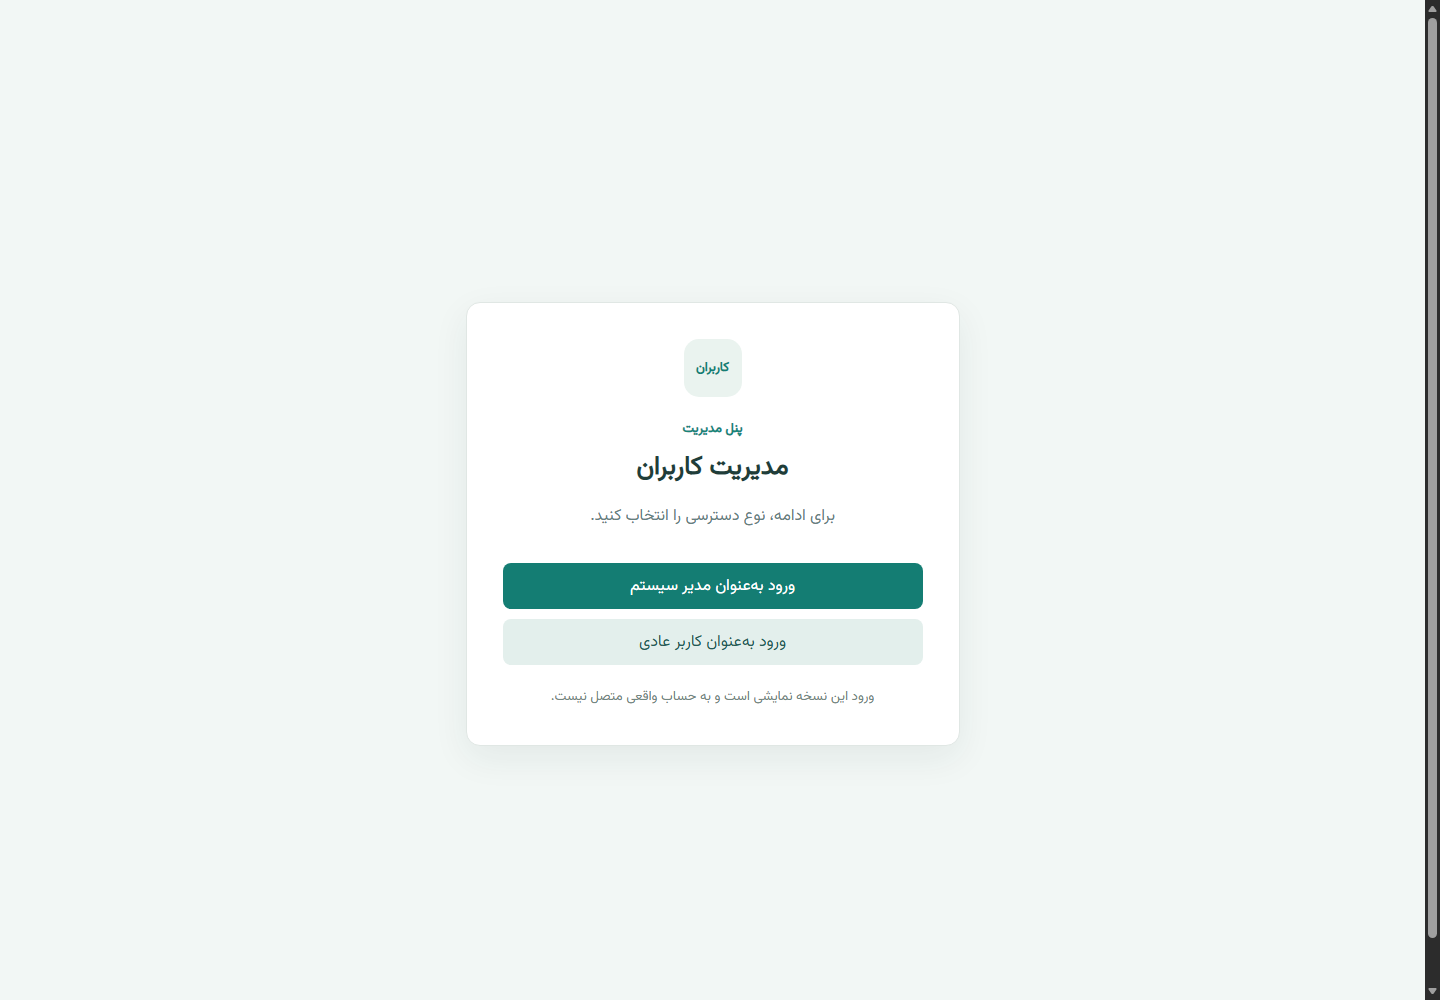
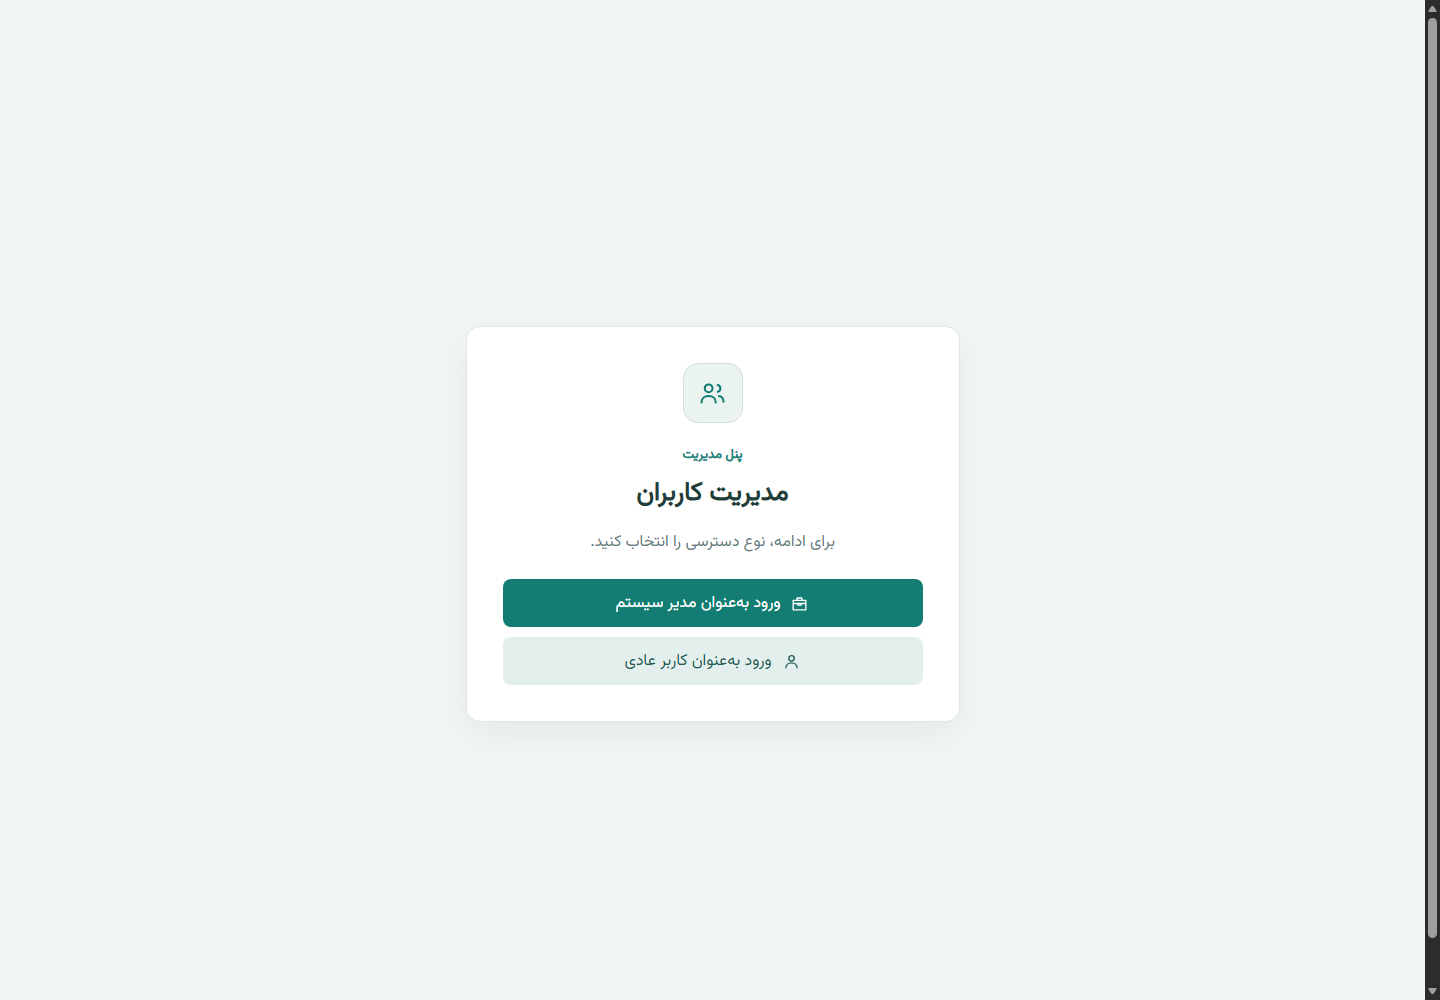
Refine role selection and project README

Changed region(s): [[0.3438, 0.372, 0.6562, 0.713]]

diff --git a/src/app/login-page.css b/src/app/login-page.css
@@ -1,11 +1,12 @@
 :host { display: block; min-height: 100vh; }
 .auth-page { display: grid; min-height: 100vh; place-items: center; padding: 24px; background: #f2f7f5; }
 .auth-card { width: min(420px, 100%); padding: 36px; border: 1px solid #e0e7e4; border-radius: 14px; background: #fff; box-shadow: 0 12px 36px #183b3512; text-align: center; }
-.auth-mark { display: grid; width: 58px; height: 58px; place-items: center; margin: 0 auto 22px; border-radius: 15px; color: #147d73; background: #eaf3ef; font-size: 13px; font-weight: 700; }
+.auth-mark { display: grid; width: 58px; height: 58px; place-items: center; margin: 0 auto 22px; border: 1px solid #cfe1db; border-radius: 15px; color: #147d73; background: #eaf3ef; }
+.auth-mark svg { width: 31px; height: 31px; stroke: currentColor; stroke-width: 1.6; stroke-linecap: round; stroke-linejoin: round; }
 .eyebrow { margin-bottom: 8px; color: #188477; font-size: 13px; font-weight: 700; }
 h1 { margin: 0 0 10px; color: #203d39; font-size: 26px; }
 .auth-description { margin-bottom: 24px; color: #66817d; }
-button { width: 100%; min-height: 46px; margin-top: 10px; border: 0; border-radius: 8px; color: #fff; background: #147d73; font: inherit; cursor: pointer; }
+button { display: flex; align-items: center; justify-content: center; gap: 10px; width: 100%; min-height: 48px; margin-top: 10px; border: 0; border-radius: 8px; color: #fff; background: #147d73; font: inherit; cursor: pointer; }
 button:hover { background: #10665e; }
 button.quiet-button { color: #245b56; background: #e3efec; }
-small { display: block; margin-top: 20px; color: #718782; line-height: 1.8; }
+.role-option-icon { width: 19px; height: 19px; stroke: currentColor; stroke-width: 1.7; stroke-linecap: round; stroke-linejoin: round; }

diff --git a/src/app/login-page.html b/src/app/login-page.html
@@ -1,17 +1,28 @@
 <main class="auth-page" dir="rtl">
   <section class="auth-card">
-    <span class="auth-mark" aria-hidden="true">کاربران</span>
+    <span class="auth-mark" aria-hidden="true">
+      <svg viewBox="0 0 24 24" fill="none">
+        <circle cx="9" cy="8" r="3" />
+        <path d="M3.5 19c0-3.1 2.2-5 5.5-5s5.5 1.9 5.5 5" />
+        <path d="M16 5.5a2.6 2.6 0 0 1 0 5.1M17 14c2.2.5 3.5 2.1 3.5 4.4" />
+      </svg>
+    </span>
     <p class="eyebrow">پنل مدیریت</p>
     <h1>مدیریت کاربران</h1>
     <p class="auth-description">برای ادامه، نوع دسترسی را انتخاب کنید.</p>
 
     <button type="button" (click)="chooseRole('admin')">
+      <svg class="role-option-icon" viewBox="0 0 24 24" fill="none" aria-hidden="true">
+        <path d="M4 8h16v12H4zM9 8V5h6v3M4 12h16M10 12v2h4v-2" />
+      </svg>
       ورود بهعنوان مدیر سیستم
     </button>
     <button class="quiet-button" type="button" (click)="chooseRole('user')">
+      <svg class="role-option-icon" viewBox="0 0 24 24" fill="none" aria-hidden="true">
+        <circle cx="12" cy="8" r="3.5" />
+        <path d="M5 20c0-3.6 2.9-6.2 7-6.2s7 2.6 7 6.2" />
+      </svg>
       ورود بهعنوان کاربر عادی
     </button>
-
-    <small>ورود این نسخه نمایشی است و به حساب واقعی متصل نیست.</small>
   </section>
 </main>

diff --git a/README.md b/README.md
@@ -1,34 +1,47 @@
 # مدیریت کاربران
 
-## ۱. انتخاب نوع دسترسی
+داشبورد فارسی برای دیدن و مدیریت کاربران یک سازمان. صفحه برای دو نوع دسترسی طراحی شده تا کارهای مدیریتی از فهرست معمولی جدا بماند.
 
-در صفحهٔ ورود، مدیر سیستم یا کاربر عادی انتخاب میشود. `authGuard` مسیرها را بررسی میکند: مدیر به پنل مدیریت میرود و کاربر عادی فقط فهرست را میبیند.
+## ورود و دسترسی
 
-![صفحهٔ انتخاب دسترسی](docs/login-view.png)
+در شروع، نقش مدیر سیستم یا کاربر عادی انتخاب میشود. `authGuard` پیش از باز کردن مسیر، نشست و نقش را میسنجد؛ مدیر وارد `/admin` میشود و کاربر عادی به `/users` میرود.
 
-## ۲. فهرست کاربران
+![صفحه ورود و انتخاب نقش](docs/login-view.png)
 
-جدول نام، ایمیل، نقش، واحد سازمانی و وضعیت حساب را نشان میدهد. جستوجو با نام، ایمیل یا واحد انجام میشود.
+## پنل مدیر
 
-![پنل مدیریت کاربران](docs/user-management-dashboard.png)
+کارتهای بالا تعداد کل، فعال و غیرفعال را نشان میدهند. بخش ترکیب واحدها سهم هر واحد را خلاصه میکند و جدول برای هر کاربر نقش، واحد، وضعیت و عملیات مرتبط را کنار هم میآورد.
 
-## ۳. مدیریت حسابها
+![داشبورد مدیریت کاربران](docs/user-management-dashboard.png)
 
-مدیر میتواند کاربر اضافه کند، اطلاعاتش را ویرایش کند یا با تأیید حذف کند. ایمیل تکراری پذیرفته نمیشود و حذف آخرین کاربر قابل بازگردانی است. گزارش تغییرهای اخیر هم در پنل میماند.
+### افزودن و ویرایش
 
-## ۴. ورود و خروج داده
+یک فرم برای ثبت کاربر تازه و ویرایش اطلاعات قبلی استفاده میشود. نام و ایمیل اعتبارسنجی میشوند و ایمیل تکراری ــ حتی با فاصله یا حروف بزرگ ــ پذیرفته نمیشود.
 
-فهرست فیلترشده را میتوان CSV گرفت و CSV معتبر را وارد کرد. پشتیبان JSON هم امکان ذخیره و بازیابی کل فهرست را میدهد.
+### حذف و جزئیات
 
-## ۵. مدل و جریان داده
+حذف پس از تأیید انجام میشود و آخرین حذف را میتوان برگرداند. دکمهٔ مشاهده، جزئیات کاربر را جدا از جدول باز میکند.
 
-`User` شکل داده را مشخص میکند؛ `UserService` جستوجو، فیلتر، مرتبسازی و ذخیره را انجام میدهد. سرویسهای جداگانه آمار واحدها، فایلهای CSV و پشتیبان، و گزارش فعالیت را مدیریت میکنند.
+## فهرست کاربر عادی
 
-## ۶. مسیرهای محافظتشده
+کاربر عادی میتواند فهرست را جستوجو کند، اما دکمههای مدیریتی افزودن، ویرایش و حذف در این مسیر در دسترس نیستند.
 
-- `/admin` فقط برای نقش مدیر باز است.
-- `/users` برای مدیر و کاربر عادی قابل مشاهده است.
-- کاربر بدون نشست به ورود فرستاده میشود؛ نقش غیرمجاز صفحهٔ دسترسی محدود را میبیند.
+![نمای فقطخواندنی فهرست کاربران](docs/regular-user-list.png)
+
+## جستوجو و مرتبسازی
+
+جستوجو نام، ایمیل و واحد سازمانی را بررسی میکند. فیلتر نقش و وضعیت با جستوجو ترکیب میشوند و مرتبسازی نام، ترتیب الفبایی را برعکس میکند. اگر نتیجهای نباشد، جدول پیام مناسب نشان میدهد.
+
+## فایلها و گزارش تغییرات
+
+- خروجی CSV شامل نتیجههای فیلترشده است؛ CSV ورودی بررسی میشود و ردیف نامعتبر یا ایمیل تکراری کنار گذاشته میشود.
+- فایل پشتیبان JSON کل فهرست را ذخیره میکند و هنگام بازیابی، قالب و رکوردها اعتبارسنجی میشوند.
+- گزارش فعالیت، آخرین تغییرهای کاربرها را نگه میدارد و از داخل پنل پاک میشود.
+- فهرست در `localStorage` و نقش نشست در `sessionStorage` مرورگر ذخیره میشود.
+
+## ساختار کد
+
+`user.model.ts` شکل و نوع داده را تعریف میکند. `UserService` مسئول فهرست، فیلترها و ذخیرهسازی است؛ سرویسهای آمار، CSV، پشتیبان و گزارش هرکدام کار مشخصی دارند. `App` وضعیت پنل مدیر را نگه میدارد و قالبهای Angular آن را نمایش میدهند. مسیرها در `app.routes.ts` تعریف شدهاند و بررسی دسترسی در `auth.guard.ts` انجام میشود.
 
 ## اجرا
 
@@ -36,5 +49,3 @@
 npm install
 npm start
 ```
-
-ورود این پروژه نمایشی است و به سامانهٔ احراز هویت یا سرور متصل نیست؛ اطلاعات نشست در `sessionStorage` و فهرست کاربران در `localStorage` مرورگر نگهداری میشود.
